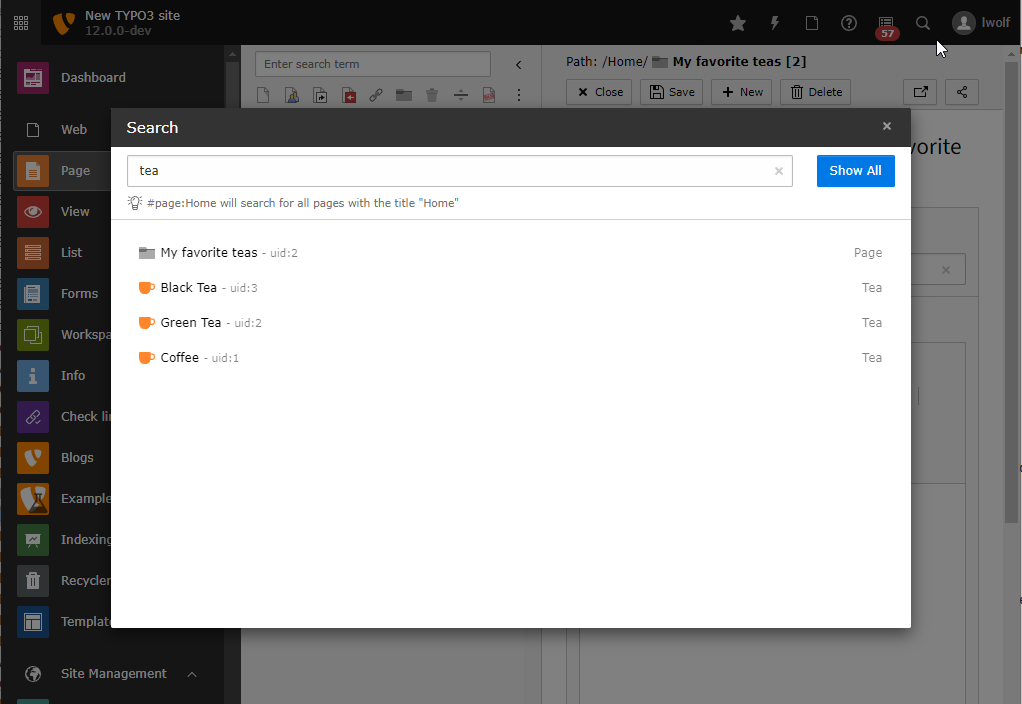
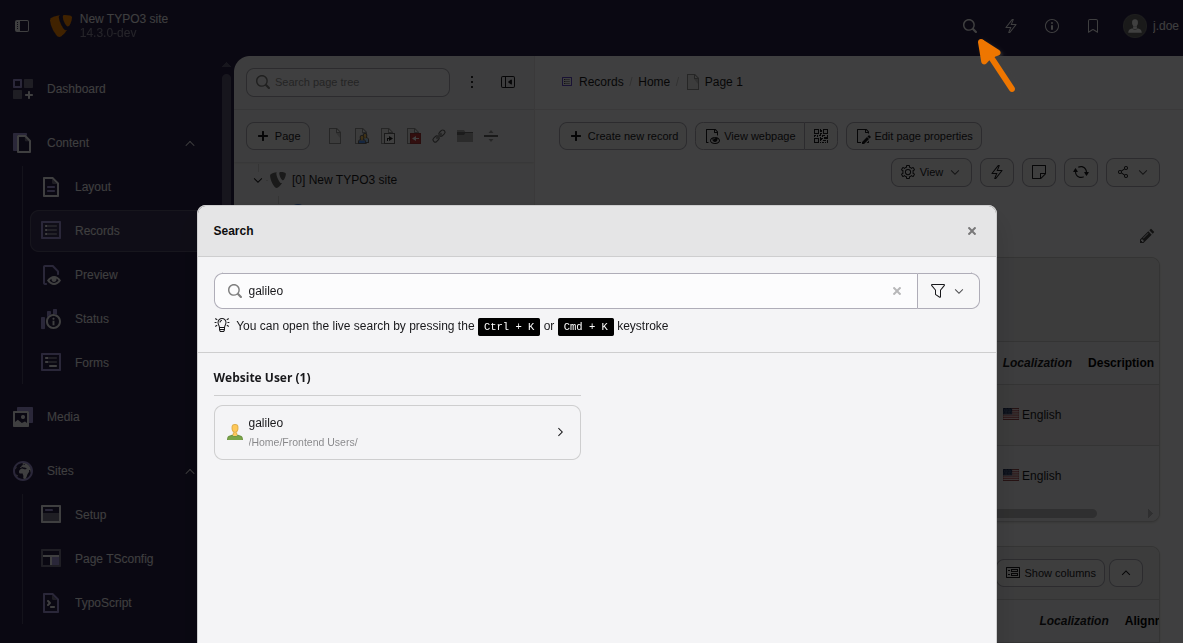
[TASK] Replace screenshots in Help within TYPO3 (#278)
Releases: main

diff --git a/Documentation/HelpInside/OnlineDocumentation/Index.rst b/Documentation/HelpInside/OnlineDocumentation/Index.rst
@@ -6,13 +6,12 @@
 TYPO3 online documentation
 ==========================
 
-You can find the startpage of the official TYPO3 documentation at
+The starting page of the official TYPO3 documentation is at
 https://docs.typo3.org/ .
 
-You can conveniently open this documentation from your TYPO3 backend:
-
-In the top bar, click the question mark icon to access the
-Help section, then select the :guilabel:`TYPO3 Online Documentation` module.
+However, you can also open this documentation from your TYPO3 backend. Click on your name
+in the right corner of top bar, and then click on
+:guilabel:`TYPO3 Online Documentation` in the drop down menu.
 
 ..  figure:: /Images/ManualScreenshots/Help/Typo3OnlineDocumentation.png
     :alt: The TYPO3 Online Documentation in the Help menu

diff --git a/Documentation/HelpInside/Tooltips/Index.rst b/Documentation/HelpInside/Tooltips/Index.rst
@@ -7,10 +7,10 @@ Tooltips
 ========
 
 Hover your mouse pointer over buttons and icons to display a short description
- of the function.
+of the function.
 
 ..  figure:: /Images/ManualScreenshots/Help/Tooltip.png
-    :alt: Tooltip for the Forms module
+    :alt: Tooltip for the color scheme
     :zoom: lightbox
 
-    See the Tooltip help for the Forms module
+    See the Tooltip help for light and dark mode

diff --git a/Documentation/HelpInside/BackendSearch/Index.rst b/Documentation/HelpInside/BackendSearch/Index.rst
@@ -7,7 +7,7 @@ Backend search
 ==============
 
 The backend search tool accepts text and searches against
-various types of records in the backend.
+page records, content records, database records and backend modules.
 
 The search can be opened by selecting the magnifying glass in the top right
 corner of the toolbar or by pressing the :kbd:`Cmd` + :kbd:`K`
